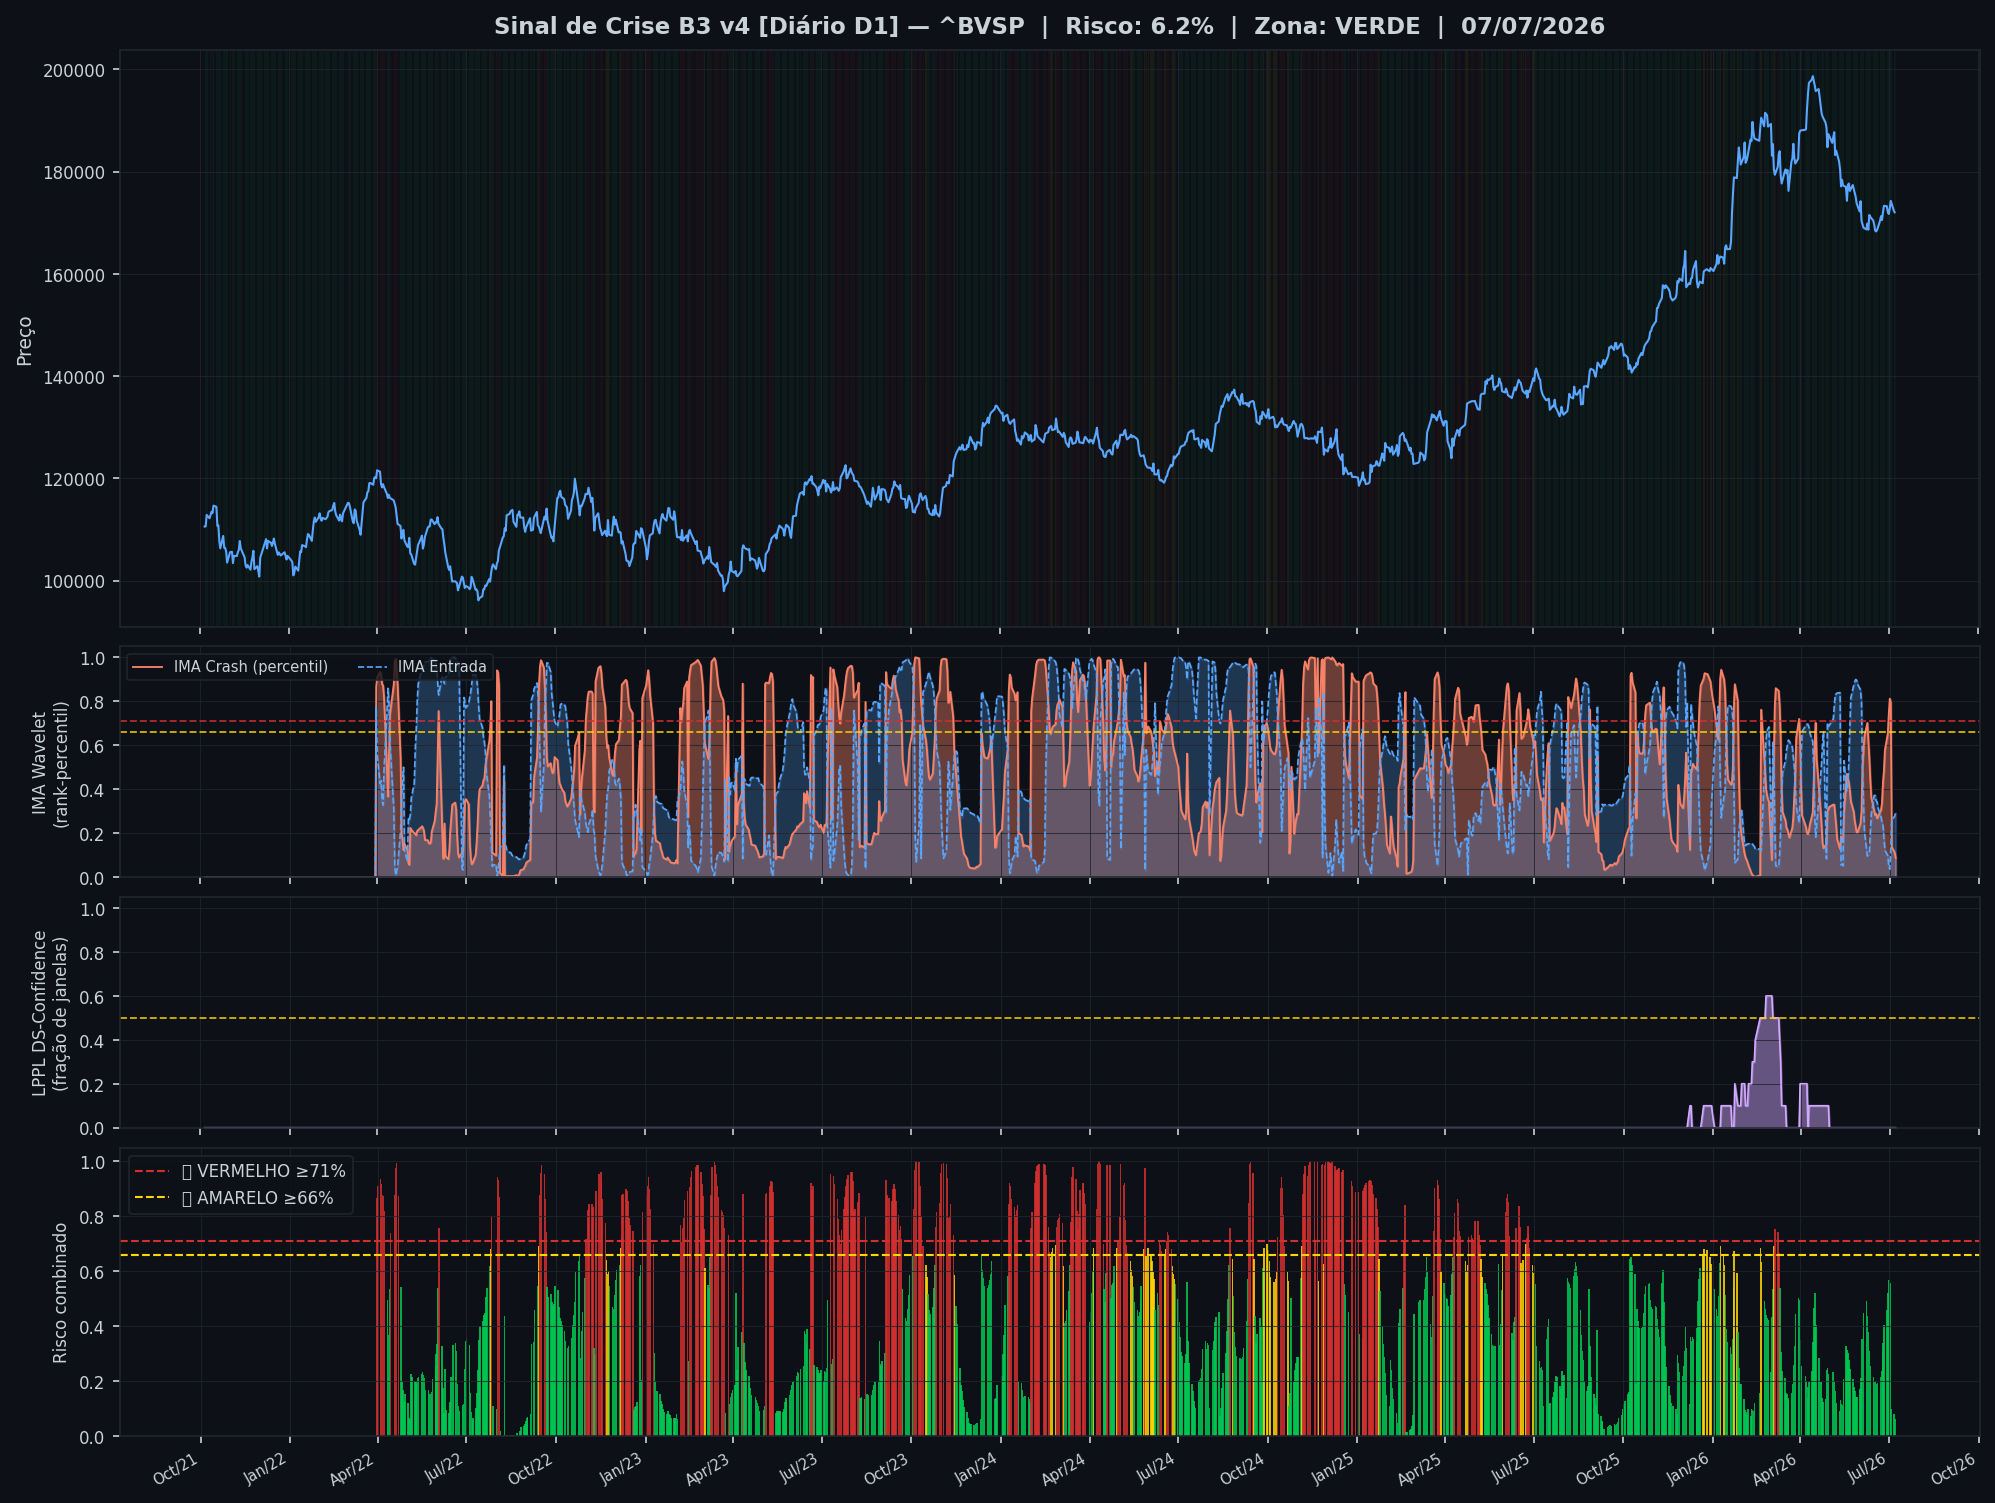
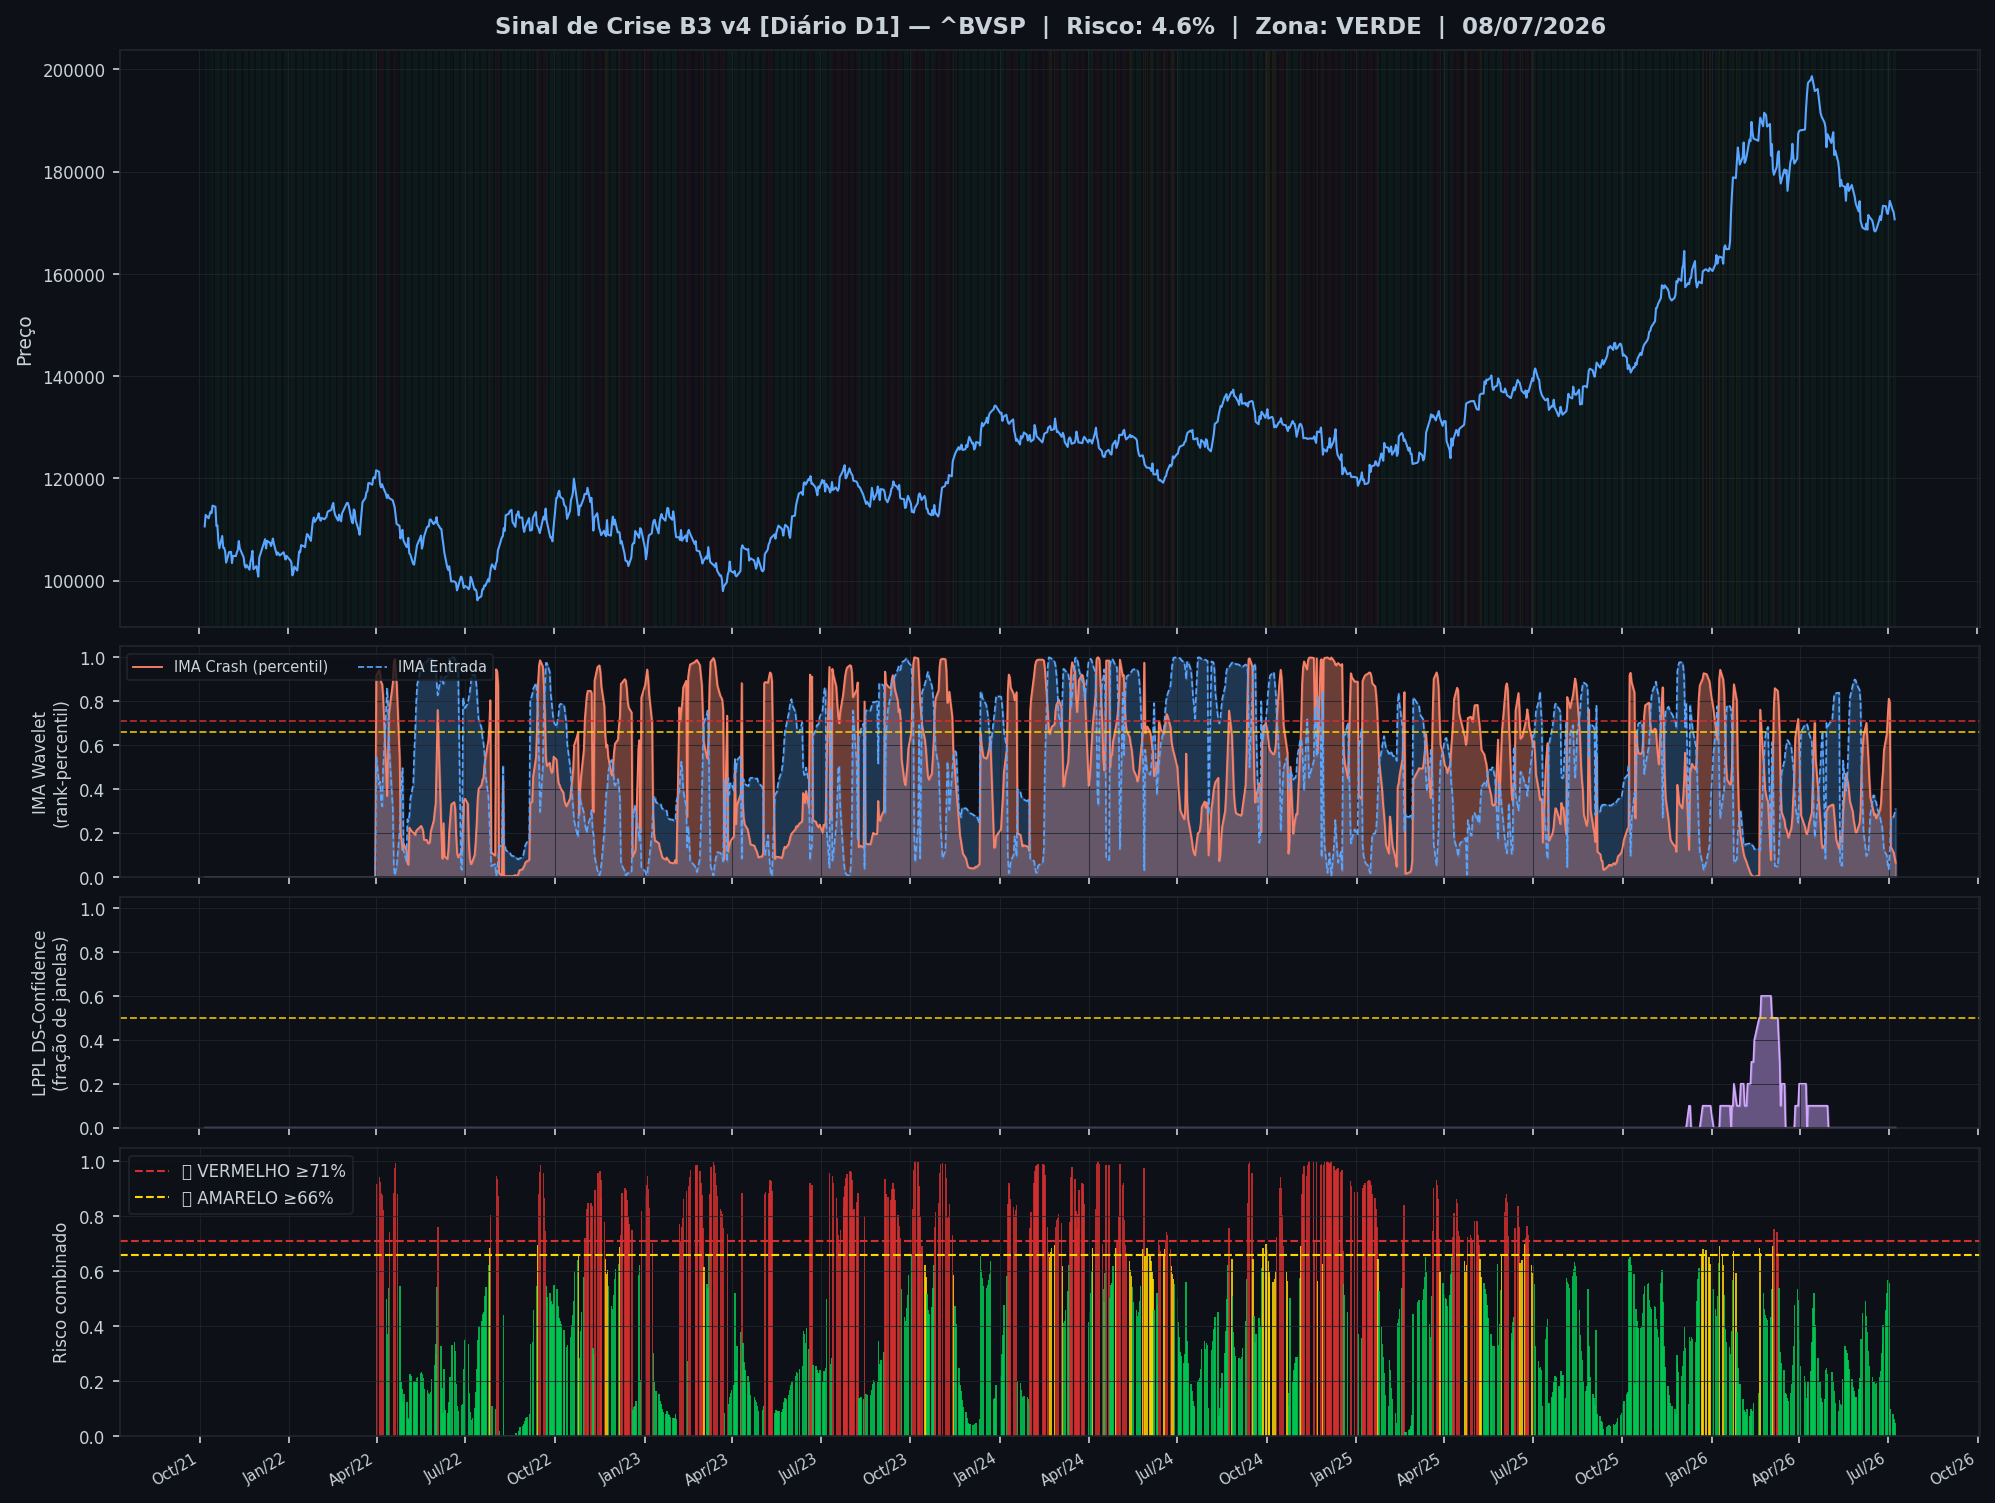
🤖 Auto: Sinal 08/07/2026 19:04

diff --git a/content/diario/2026-07-08.md b/content/diario/2026-07-08.md
@@ -1,0 +1,102 @@
+---
+title: "🟢 Diário 08/07/2026 — VERDE"
+date: 2026-07-08
+tags: [diario]
+---
+
+> [!success] 🟢 **VERDE** — Risco 5% · ▼ -2 p.p. vs leitura anterior
+> `█░░░░░░░░░░░░░░░░░░░`
+> Mercado sem sinais relevantes de estresse.
+
+
+| Indicador | Valor |
+|---|---|
+| 🔴 IMA Crash (percentil 2 anos) | **7%** |
+| 🔵 IMA Entrada (compra) | 31% |
+| 🫧 LPPL DS-Confidence | 0% |
+| 📊 Ibovespa | 170.653 pts |
+
+![Gráfico do sinal](../graficos/sinal_diario.png)
+
+## Últimos 30 pregões
+
+| Data | Zona | Risco | IMA | LPPL |
+|---|---|---|---|---|
+| 2026-07-08 | 🟢 VERDE | **5%** | 7% | 0% |
+| 2026-07-07 | 🟢 VERDE | **6%** | 9% | 0% |
+| 2026-07-06 | 🟢 VERDE | **8%** | 11% | 0% |
+| 2026-07-03 | 🟢 VERDE | **10%** | 14% | 0% |
+| 2026-07-02 | 🟢 VERDE | **56%** | 80% | 0% |
+| 2026-07-01 | 🟢 VERDE | **57%** | 81% | 0% |
+| 2026-06-30 | 🟢 VERDE | **52%** | 74% | 0% |
+| 2026-06-29 | 🟢 VERDE | **46%** | 65% | 0% |
+| 2026-06-26 | 🟢 VERDE | **40%** | 58% | 0% |
+| 2026-06-25 | 🟢 VERDE | **34%** | 48% | 0% |
+| 2026-06-24 | 🟢 VERDE | **30%** | 43% | 0% |
+| 2026-06-23 | 🟢 VERDE | **24%** | 34% | 0% |
+| 2026-06-22 | 🟢 VERDE | **21%** | 31% | 0% |
+| 2026-06-19 | 🟢 VERDE | **19%** | 28% | 0% |
+| 2026-06-18 | 🟢 VERDE | **19%** | 27% | 0% |
+| 2026-06-17 | 🟢 VERDE | **20%** | 29% | 0% |
+| 2026-06-16 | 🟢 VERDE | **20%** | 28% | 0% |
+| 2026-06-15 | 🟢 VERDE | **21%** | 30% | 0% |
+| 2026-06-12 | 🟢 VERDE | **25%** | 36% | 0% |
+| 2026-06-11 | 🟢 VERDE | **31%** | 44% | 0% |
+| 2026-06-10 | 🟢 VERDE | **38%** | 54% | 0% |
+| 2026-06-09 | 🟢 VERDE | **44%** | 62% | 0% |
+| 2026-06-08 | 🟢 VERDE | **49%** | 70% | 0% |
+| 2026-06-05 | 🟢 VERDE | **45%** | 64% | 0% |
+| 2026-06-03 | 🟢 VERDE | **35%** | 50% | 0% |
+| 2026-06-02 | 🟢 VERDE | **21%** | 30% | 0% |
+| 2026-06-01 | 🟢 VERDE | **17%** | 25% | 0% |
+| 2026-05-29 | 🟢 VERDE | **14%** | 20% | 0% |
+| 2026-05-28 | 🟢 VERDE | **14%** | 20% | 0% |
+| 2026-05-27 | 🟢 VERDE | **16%** | 23% | 0% |
+
+## Monitor Multi-Ativo
+
+**15% dos ativos em tensão** (0🔴 5🟡) — quanto mais ativos disparam juntos, mais confiável o sinal.
+
+| Zona | Ativo | Setor | IMA Crash | IMA Entrada |
+|---|---|---|---|---|
+| 🟡 | **GERDAU** | Siderurgia | 88.0% | 1.8% |
+| 🟡 | **USD/BRL** | Câmbio | 86.6% | 53.0% |
+| 🟡 | **AMBEV S/A** | Consumo | 79.2% | 0.6% |
+| 🟡 | **VIBRA** | Energia | 75.4% | 19.0% |
+| 🟡 | **PETROBRAS** | Petróleo | 72.6% | 42.8% |
+| 🟢 | **PETROBRAS** | Petróleo | 72.0% | 36.4% |
+| 🟢 | **PRIO** | Petróleo | 65.2% | 47.2% |
+| 🟢 | **VALE** | Mineração | 52.2% | 19.8% |
+| 🟢 | **ULTRAPAR** | Outros | 43.0% | 44.8% |
+| 🟢 | **B3** | Financeiro | 41.8% | 60.2% |
+| 🟢 | **LOCALIZA** | Aluguel | 27.2% | 61.0% |
+| 🟢 | **ENEVA** | Energia | 18.0% | 29.4% |
+| 🟢 | **BRADESCO** | Financeiro | 10.4% | 32.8% |
+| 🟢 | **REDE D OR** | Saúde | 9.6% | 30.6% |
+| 🟢 | **SUZANO S.A.** | Papel/Celulose | 9.0% | 45.8% |
+| 🟢 | **BRASIL** | Financeiro | 8.6% | 44.0% |
+| 🟢 | **COPEL** | Energia | 6.4% | 32.6% |
+| 🟢 | **AXIA ENERGIA** | Energia | 5.6% | 19.8% |
+| 🟢 | **EQUATORIAL** | Energia | 5.2% | 24.8% |
+| 🟢 | **BTGP BANCO** | Financeiro | 4.0% | 31.2% |
+| 🟢 | **TELEF BRASIL** | Outros | 3.4% | 24.6% |
+| 🟢 | **ITAUSA** | Financeiro | 2.6% | 18.6% |
+| 🟢 | **SABESP** | Saneamento | 2.2% | 18.4% |
+| 🟢 | **EMBRAER** | Outros | 0.4% | 23.6% |
+| 🟢 | **ITAUUNIBANCO** | Financeiro | 0.2% | 15.2% |
+| 🟢 | **WEG** | Industrial | 0.2% | 27.8% |
+
+![Monitor multi-ativo](../graficos/multi_diario.png)
+
+> [!info]- Como interpretar (clique para expandir)
+> - **IMA Crash**: percentil do índice de mudanças abruptas de Caetano nos últimos 2 anos. 80% = estresse espectral acima de 80% do histórico recente — alta frequência com baixa volatilidade, padrão que antecede viradas.
+> - **IMA Entrada**: mesmo método nas frequências baixas — mercado estável após queda, possível oportunidade de compra.
+> - **LPPL DS-Confidence**: fração de janelas (60–504 pregões) em que o modelo de bolha de Sornette produz um ajuste válido. 30% já é relevante; acima de 50% é forte evidência de estrutura de bolha.
+> - **Zonas com histerese**: o sinal só muda de zona ao cruzar o limiar de entrada, e só volta ao cruzar o de saída — evita flip-flop diário.
+
+
+---
+*Sinal de Crise B3 v4 · IMA Wavelet ([Caetano & Yoneyama, Physica-A 2007](https://doi.org/10.1016/j.physa.2007.03.054)) + LPPL DS-Confidence (Sornette, ETH-Zurich) · [Metodologia](metodologia) · [Histórico](historico)*
+
+> [!quote]- Aviso
+> Estudo acadêmico. Não constitui recomendação de investimento.

diff --git a/content/index.md b/content/index.md
@@ -8,21 +8,21 @@ tags: [home]
 
 Monitoramento diário e intraday do Ibovespa — **IMA Wavelet** (Prof. Marco Antonio Leonel Caetano, ITA/INSPER) + **LPPL DS-Confidence** (Prof. Didier Sornette, ETH-Zurich).
 
-*Última atualização: 08/07/2026 18:02 BRT · ^BVSP · Intraday 15min · v4*
+*Última atualização: 08/07/2026 19:04 BRT · ^BVSP · Diário D1 · v4*
 
-> [!success] 🟢 **VERDE** — Risco 65% · ＝ +0 p.p. vs leitura anterior
-> `█████████████░░░░░░░`
+> [!success] 🟢 **VERDE** — Risco 5% · ▼ -2 p.p. vs leitura anterior
+> `█░░░░░░░░░░░░░░░░░░░`
 > Mercado sem sinais relevantes de estresse.
 
 
 | Indicador | Valor |
 |---|---|
-| 🔴 IMA Crash (percentil 2 anos) | **65%** |
-| 🔵 IMA Entrada (compra) | 54% |
+| 🔴 IMA Crash (percentil 2 anos) | **7%** |
+| 🔵 IMA Entrada (compra) | 31% |
 | 🫧 LPPL DS-Confidence | 0% |
-| 📊 Ibovespa | 170.825 pts |
+| 📊 Ibovespa | 170.653 pts |
 
-**Multi-ativo:** 38% em tensão (8🔴 2🟡 de 26 ativos)
+**Multi-ativo:** 15% em tensão (0🔴 5🟡 de 26 ativos)
 
 
 > [!tip]- Calibração v4 (backtest 15y)
@@ -32,8 +32,13 @@ Monitoramento diário e intraday do Ibovespa — **IMA Wavelet** (Prof. Marco An
 
 | Data | Zona | Risco | IMA | LPPL |
 |---|---|---|---|---|
-| [08 Jul 2026](diario/2026-07-08) | 🟢 VERDE | **65%** | 65% | 0% |
-| [07 Jul 2026](diario/2026-07-07) | 🟢 VERDE | **29%** | 29% | 0% |
+| [08 Jul 2026](diario/2026-07-08) | 🟢 VERDE | **5%** | 7% | 0% |
+| [07 Jul 2026](diario/2026-07-07) | 🟢 VERDE | **6%** | 9% | 0% |
+| [06 Jul 2026](diario/2026-07-06) | 🟢 VERDE | **8%** | 11% | 0% |
+| [03 Jul 2026](diario/2026-07-03) | 🟢 VERDE | **10%** | 14% | 0% |
+| [02 Jul 2026](diario/2026-07-02) | 🟢 VERDE | **56%** | 80% | 0% |
+| [01 Jul 2026](diario/2026-07-01) | 🟢 VERDE | **57%** | 81% | 0% |
+| [30 Jun 2026](diario/2026-06-30) | 🟢 VERDE | **52%** | 74% | 0% |
 
 ## Navegação
 

diff --git a/content/historico.md b/content/historico.md
@@ -7,6 +7,7 @@ tags: [historico]
 
 | Data | Modo | Zona | Risco | IMA | LPPL |
 |---|---|---|---|---|---|
+| 2026-07-08 | diario | 🟢 VERDE | 5% | 7% | 0% |
 | 2026-07-08 19:45 | intraday | 🟢 VERDE | 65% | 65% | 0% |
 | 2026-07-07 | diario | 🟢 VERDE | 6% | 9% | 0% |
 | 2026-07-07 19:45 | intraday | 🟢 VERDE | 29% | 29% | 0% |
